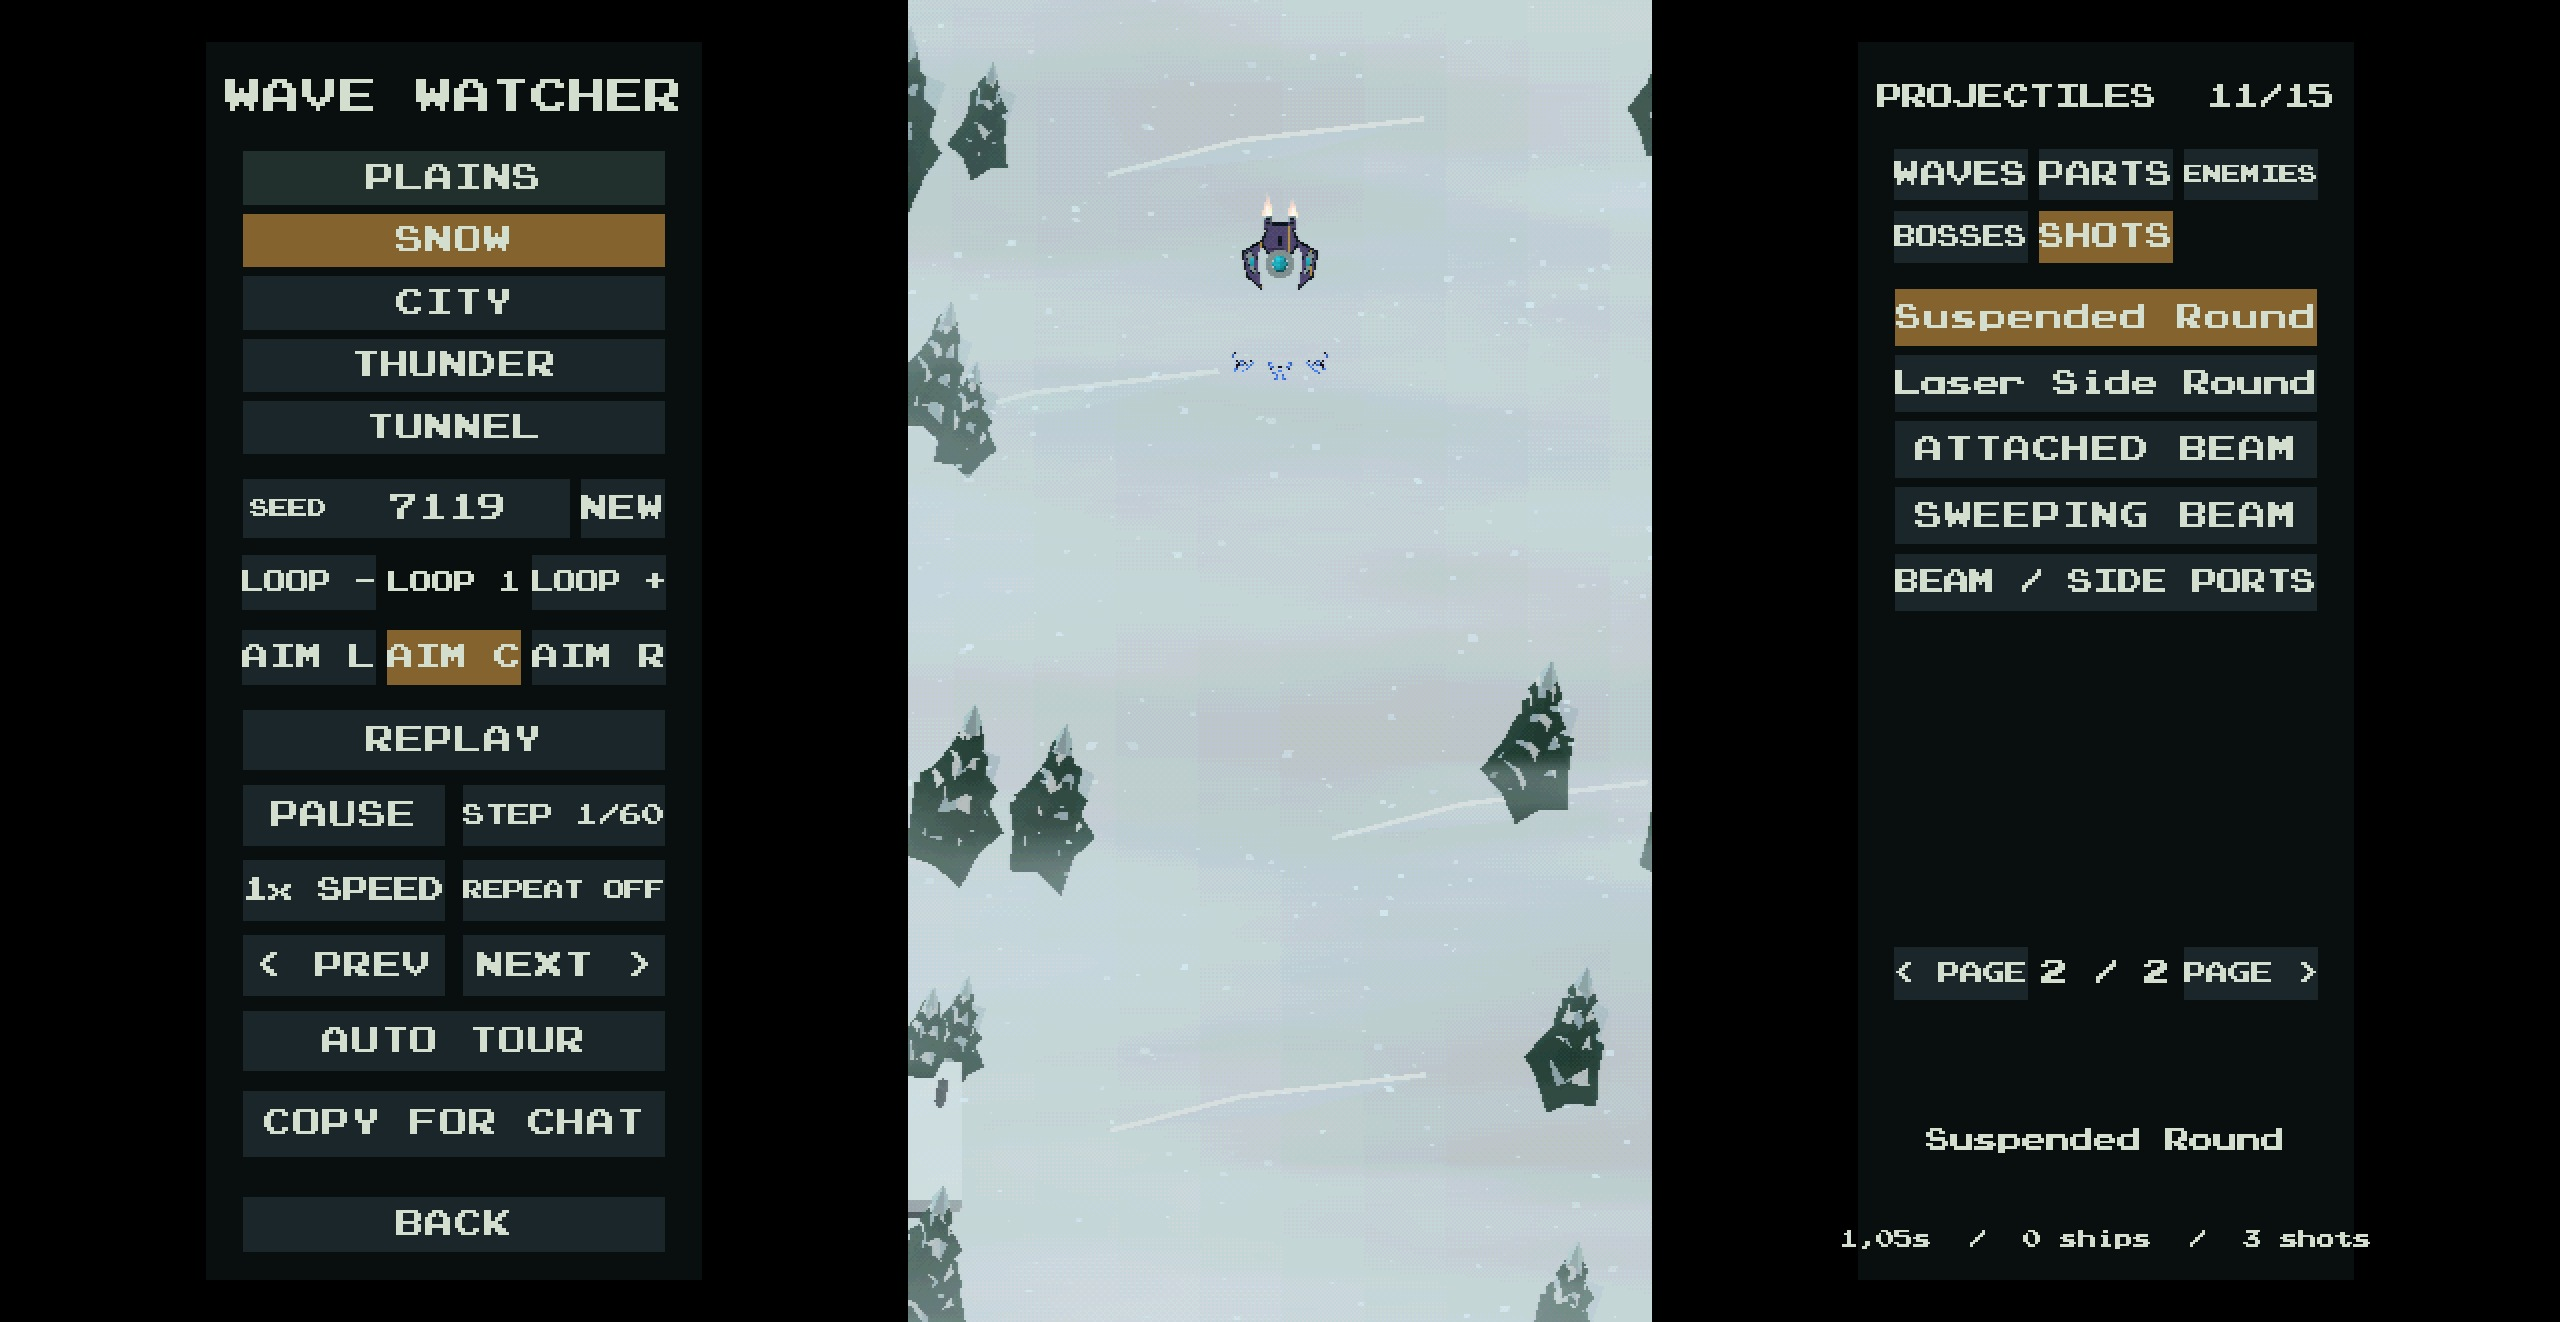
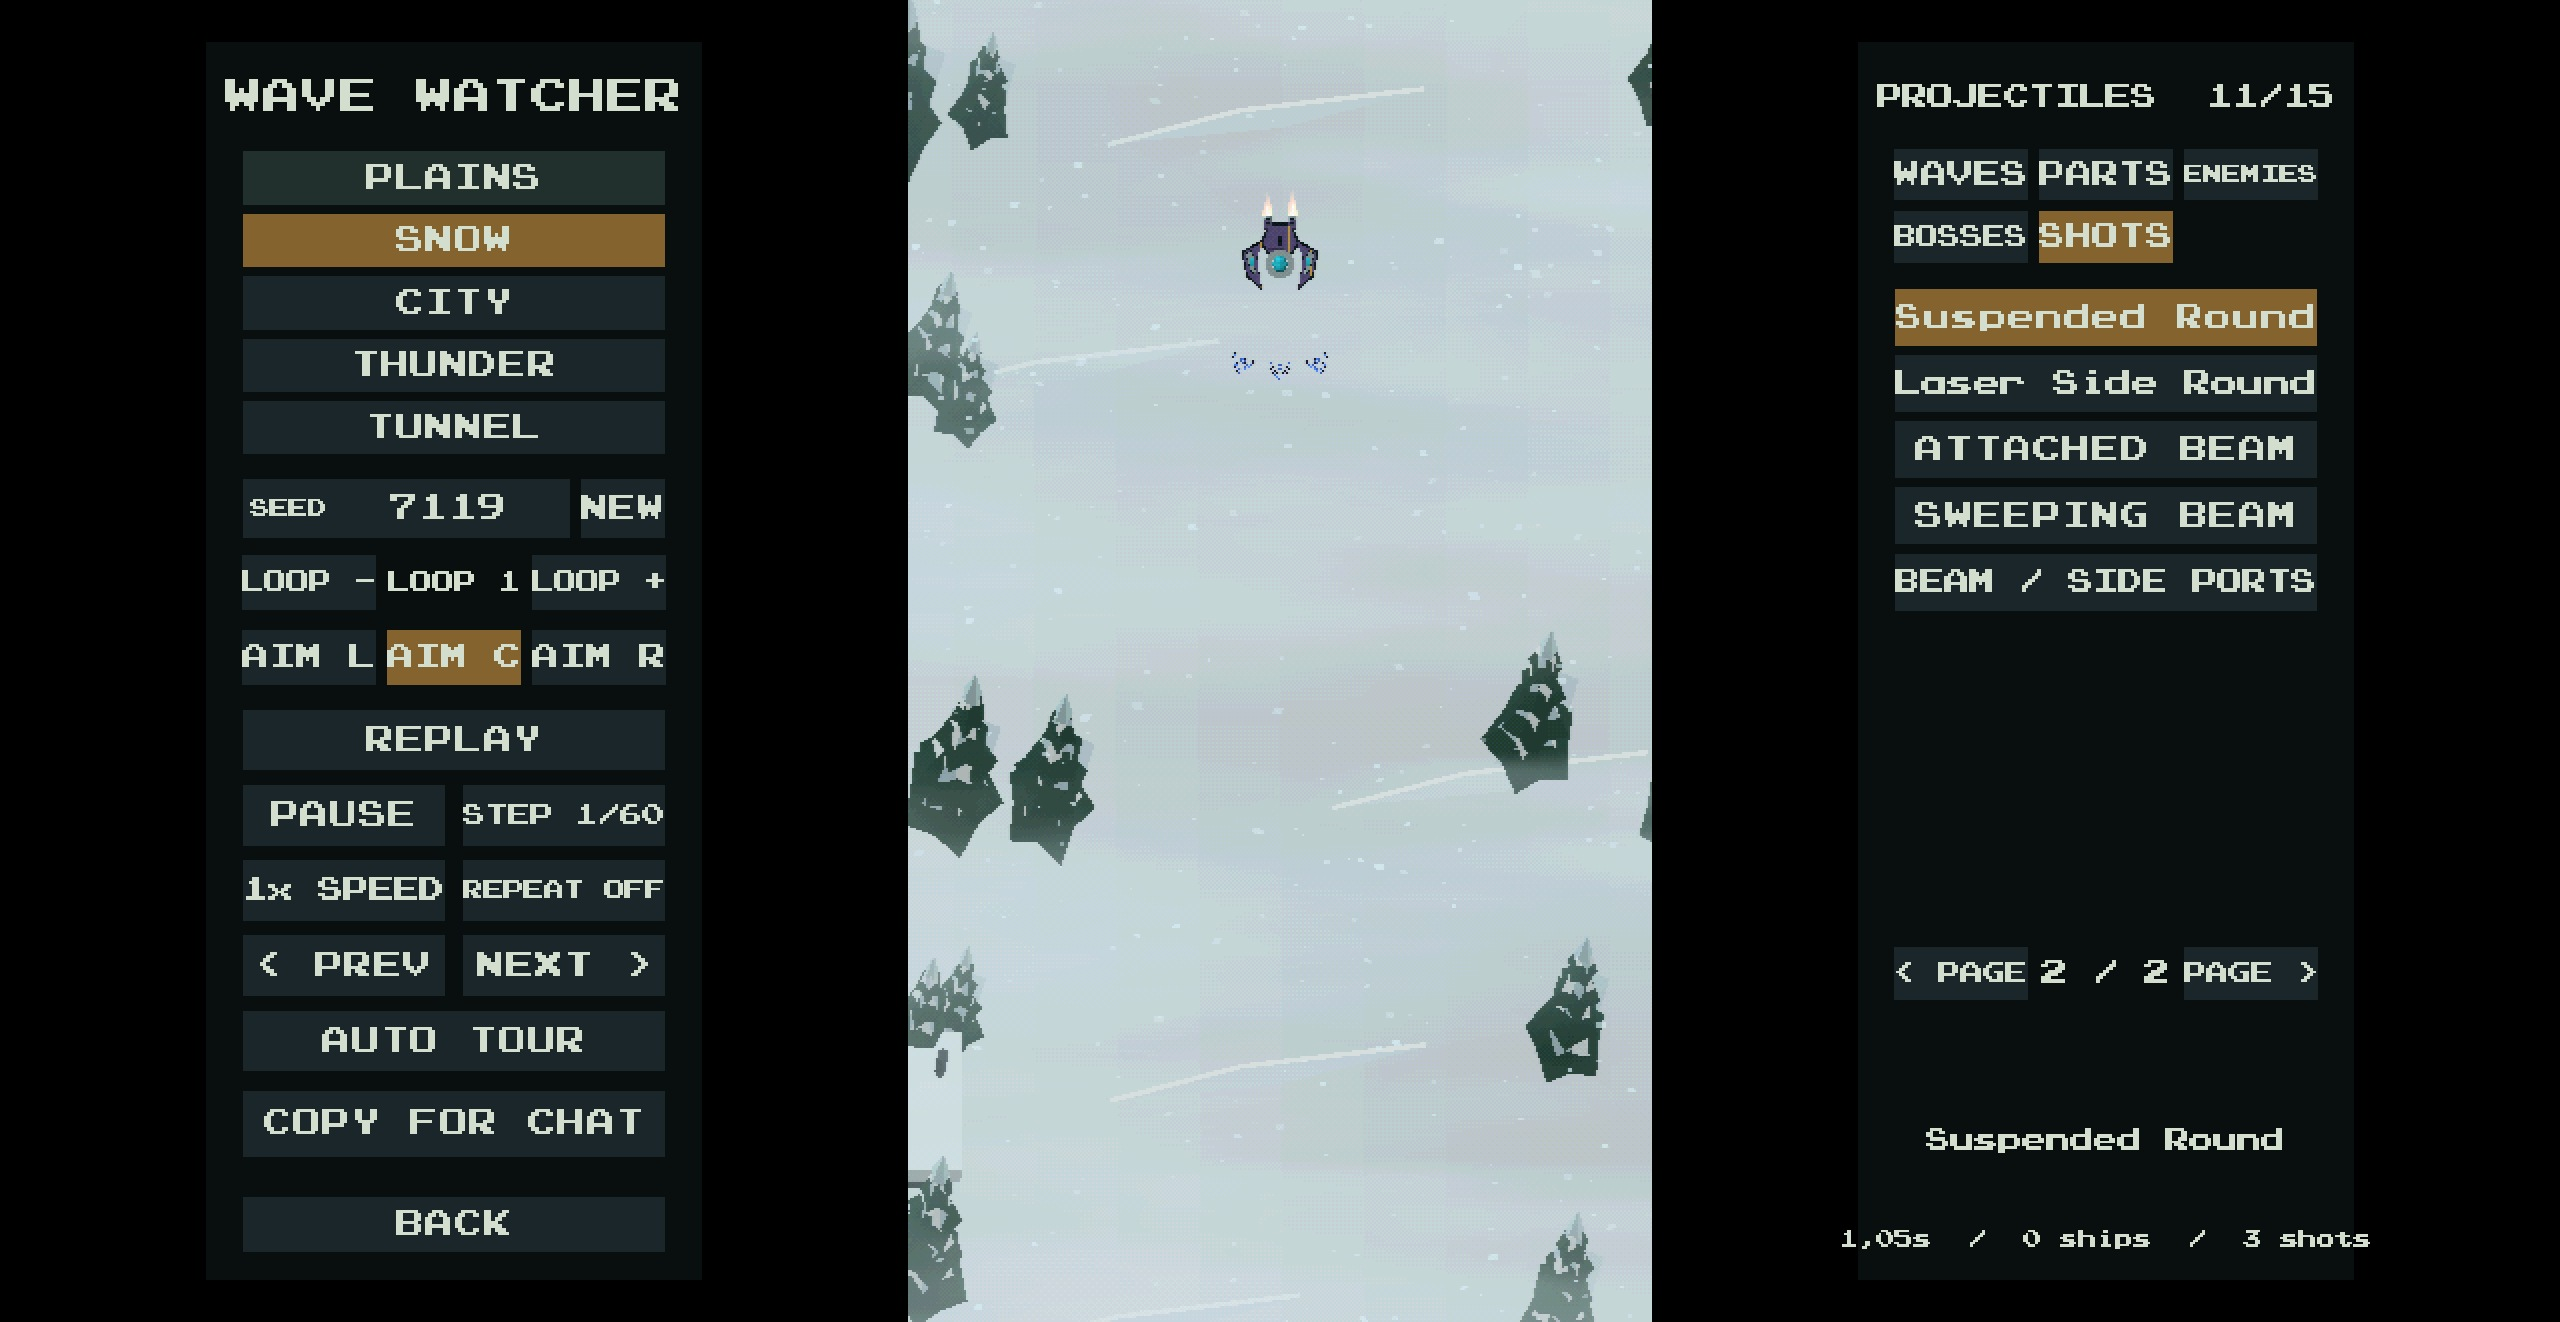
Join delayed bullet arrow tips and curve their wings

diff --git a/Assets/Scripts/Combat/HostileProjectileArt.cs b/Assets/Scripts/Combat/HostileProjectileArt.cs
@@ -51,12 +51,11 @@ public static class HostileProjectileArt
             case Shape.Ricochet:return Mathf.Max((ax+ay)/1.02f,Mathf.Max(ax,ay)/.82f);
             case Shape.Suspended:
             {
-                // Two detached chevron wings frame a separate round core.
-                // Keep transparent gaps wide enough to survive the gameplay pixel grid.
-                var fromTip=new Vector2(ax-.30f,y-.72f);
-                var wing=new Vector2(.52f,-1.18f);
-                float along=Mathf.Clamp01(Vector2.Dot(fromTip,wing)/wing.sqrMagnitude);
-                return Mathf.Min(r/.28f,(fromTip-wing*along).magnitude/.15f);
+                // A joined arrowhead bows out into curved wings around a separate ball.
+                float curve=.74f-.75f*ax-.75f*ax*ax,slope=.75f+1.5f*ax;
+                float arrow=Mathf.Max(Mathf.Abs(y-curve)/(.14f*Mathf.Sqrt(1+slope*slope)),(ax-.77f)/.08f);
+                float ball=Mathf.Sqrt(x*x+(y+.22f)*(y+.22f))/.26f;
+                return Mathf.Min(arrow,ball);
             }
             case Shape.Missile:return Mathf.Max(ay/.98f,ax/(y<-.20f ? .82f : .48f*(1.2f-y*.55f)));
             case Shape.Plasma:return Mathf.Max(Mathf.Max(ax,ay)/.87f,(ax+ay)/1.23f);
